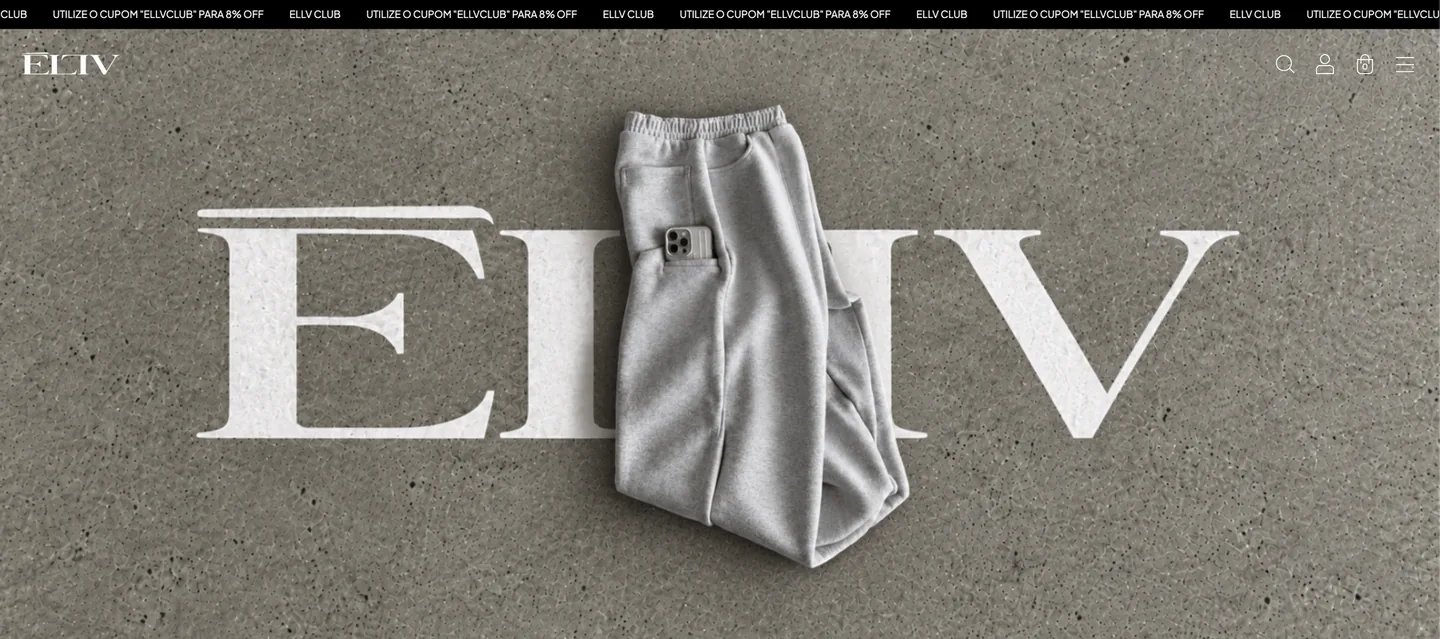
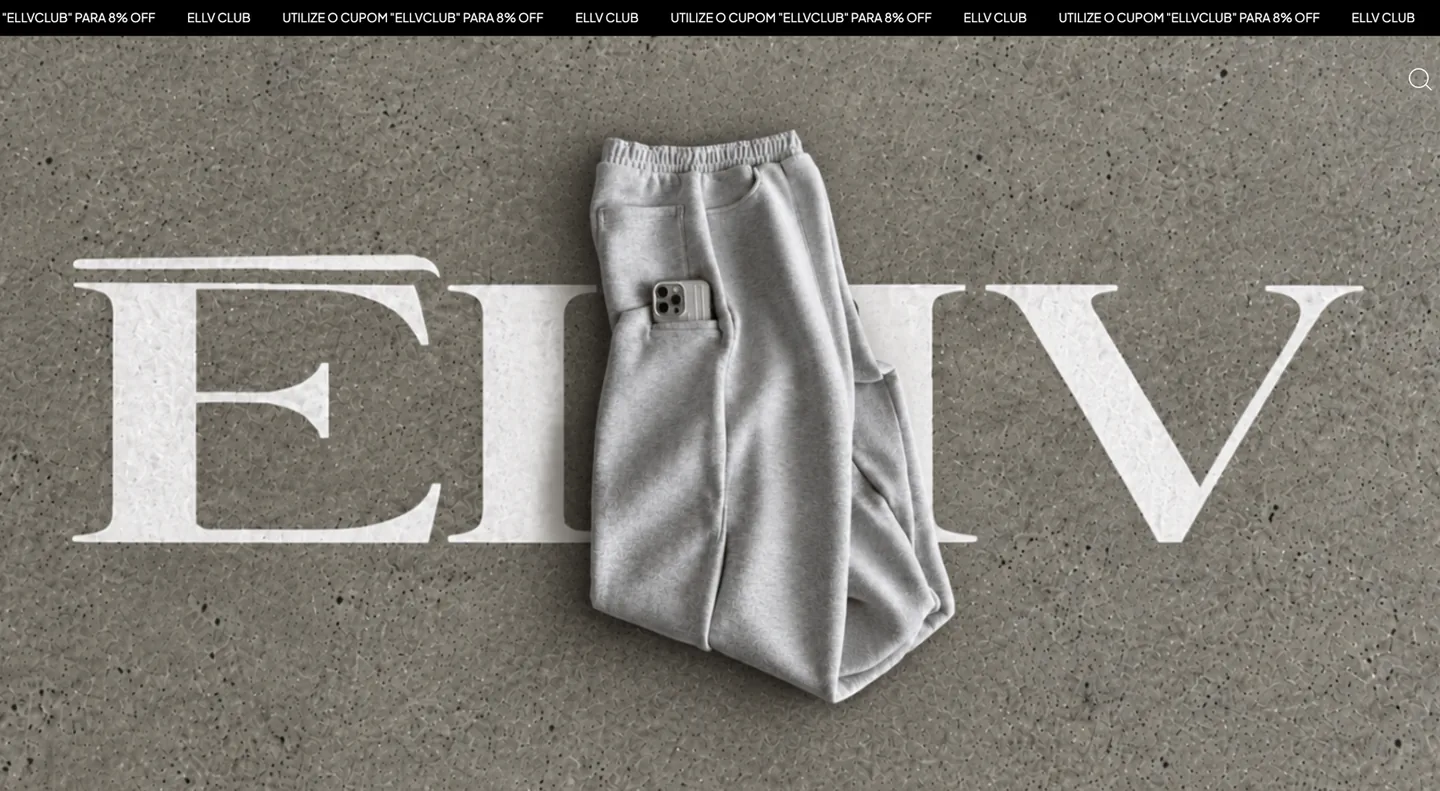
Imagem de Lojas virtuais na mesma proporcao das outras (1440x791)

diff --git a/src/app/sections/services-section.tsx b/src/app/sections/services-section.tsx
@@ -41,7 +41,7 @@ const EASE_UI = [0.44, 0, 0.34, 0.98] as const;
 const MediaCard_data: MediaCardData[] = [
     { title: "01", title2: "01", title3: "01", alt: "Página inicial do site da ACC", height: "778", imgSrc: "/assets/media/images/portfolio-acc-1440.webp", srcSet: "/assets/media/images/portfolio-acc-720.webp 720w, /assets/media/images/portfolio-acc-1440.webp 1440w", width: "1440", title4: "Sites", description: "Site institucional", description2: "Um site sob medida para a sua marca: estrutura pensada para a jornada do cliente, design autoral e código leve, pronto para crescer junto com o negócio.", alt2: "Página inicial do site da ACC", height2: "778", imgSrc2: "/assets/media/images/portfolio-acc-1440.webp", srcSet2: "/assets/media/images/portfolio-acc-720.webp 720w, /assets/media/images/portfolio-acc-1440.webp 1440w", width2: "1440", title5: "Sites", description3: "Site institucional", description4: "Um site sob medida para a sua marca: estrutura pensada para a jornada do cliente, design autoral e código leve, pronto para crescer junto com o negócio." },
     { title: "02", title2: "02", title3: "02", alt: "Landing page do escritório Dametto", height: "824", imgSrc: "/assets/media/images/servicos-dametto-1440.webp", srcSet: "/assets/media/images/servicos-dametto-720.webp 720w, /assets/media/images/servicos-dametto-1440.webp 1440w", width: "1440", title4: "Landing pages", description: "Páginas de campanha", description2: "Páginas com um único objetivo, feitas para campanhas e lançamentos: carregamento rápido, argumento claro e caminho curto até o contato.", alt2: "Landing page do escritório Dametto", height2: "824", imgSrc2: "/assets/media/images/servicos-dametto-1440.webp", srcSet2: "/assets/media/images/servicos-dametto-720.webp 720w, /assets/media/images/servicos-dametto-1440.webp 1440w", width2: "1440", title5: "Landing pages", description3: "Páginas de campanha", description4: "Páginas com um único objetivo, feitas para campanhas e lançamentos: carregamento rápido, argumento claro e caminho curto até o contato." },
-    { title: "03", title2: "03", title3: "03", alt: "Página inicial da loja virtual da ELLV", height: "639", imgSrc: "/assets/media/images/servicos-ellv-1440.webp", srcSet: "/assets/media/images/servicos-ellv-720.webp 720w, /assets/media/images/servicos-ellv-1440.webp 1440w", width: "1440", title4: "Lojas virtuais", description: "E-commerce", description2: "Lojas prontas para vender: vitrine rápida, páginas de produto que convencem e checkout simples, com pagamento e frete integrados.", alt2: "Página inicial da loja virtual da ELLV", height2: "639", imgSrc2: "/assets/media/images/servicos-ellv-1440.webp", srcSet2: "/assets/media/images/servicos-ellv-720.webp 720w, /assets/media/images/servicos-ellv-1440.webp 1440w", width2: "1440", title5: "Lojas virtuais", description3: "E-commerce", description4: "Lojas prontas para vender: vitrine rápida, páginas de produto que convencem e checkout simples, com pagamento e frete integrados." },
+    { title: "03", title2: "03", title3: "03", alt: "Página inicial da loja virtual da ELLV", height: "791", imgSrc: "/assets/media/images/servicos-ellv-1440.webp", srcSet: "/assets/media/images/servicos-ellv-720.webp 720w, /assets/media/images/servicos-ellv-1440.webp 1440w", width: "1440", title4: "Lojas virtuais", description: "E-commerce", description2: "Lojas prontas para vender: vitrine rápida, páginas de produto que convencem e checkout simples, com pagamento e frete integrados.", alt2: "Página inicial da loja virtual da ELLV", height2: "791", imgSrc2: "/assets/media/images/servicos-ellv-1440.webp", srcSet2: "/assets/media/images/servicos-ellv-720.webp 720w, /assets/media/images/servicos-ellv-1440.webp 1440w", width2: "1440", title5: "Lojas virtuais", description3: "E-commerce", description4: "Lojas prontas para vender: vitrine rápida, páginas de produto que convencem e checkout simples, com pagamento e frete integrados." },
     { title: "04", title2: "04", title3: "04", alt: "Relatório do Google PageSpeed com nota 100 em performance, acessibilidade, boas práticas e SEO", height: "791", imgSrc: "/assets/media/images/servicos-pagespeed-1440.webp", srcSet: "/assets/media/images/servicos-pagespeed-720.webp 720w, /assets/media/images/servicos-pagespeed-1440.webp 1440w", width: "1440", title4: "Performance", description: "SEO e velocidade", description2: "Site preparado para aparecer no Google e abrir rápido em qualquer conexão: estrutura semântica, dados estruturados e imagens tratadas para a web.", alt2: "Relatório do Google PageSpeed com nota 100 em performance, acessibilidade, boas práticas e SEO", height2: "791", imgSrc2: "/assets/media/images/servicos-pagespeed-1440.webp", srcSet2: "/assets/media/images/servicos-pagespeed-720.webp 720w, /assets/media/images/servicos-pagespeed-1440.webp 1440w", width2: "1440", title5: "Performance", description3: "SEO e velocidade", description4: "Site preparado para aparecer no Google e abrir rápido em qualquer conexão: estrutura semântica, dados estruturados e imagens tratadas para a web." }
 ];
 export default function ServicesSection({ mediaCardData = MediaCard_data } = {}) {

diff --git a/src/app/_styles.ts b/src/app/_styles.ts
@@ -53,6 +53,6 @@ export const mediaTileStyles: MediaTileStyles[] = [
 export const mediaCardStyles: MediaCardStyles[] = [
     { className: "aspect-[auto_1440/778]", className3: "2xl:aspect-[auto_1440/778]" },
     { className: "aspect-[auto_1440/824]", className2: "2xl:left-0", className3: "2xl:aspect-[auto_1440/824]" },
-    { className: "aspect-[auto_1440/639]", className2: "2xl:left-0", className3: "2xl:aspect-[auto_1440/639]" },
+    { className: "aspect-[auto_1440/791]", className2: "2xl:left-0", className3: "2xl:aspect-[auto_1440/791]" },
     { className: "aspect-[auto_1440/791]", className2: "2xl:left-0", className3: "2xl:aspect-[auto_1440/791]" }
 ];
